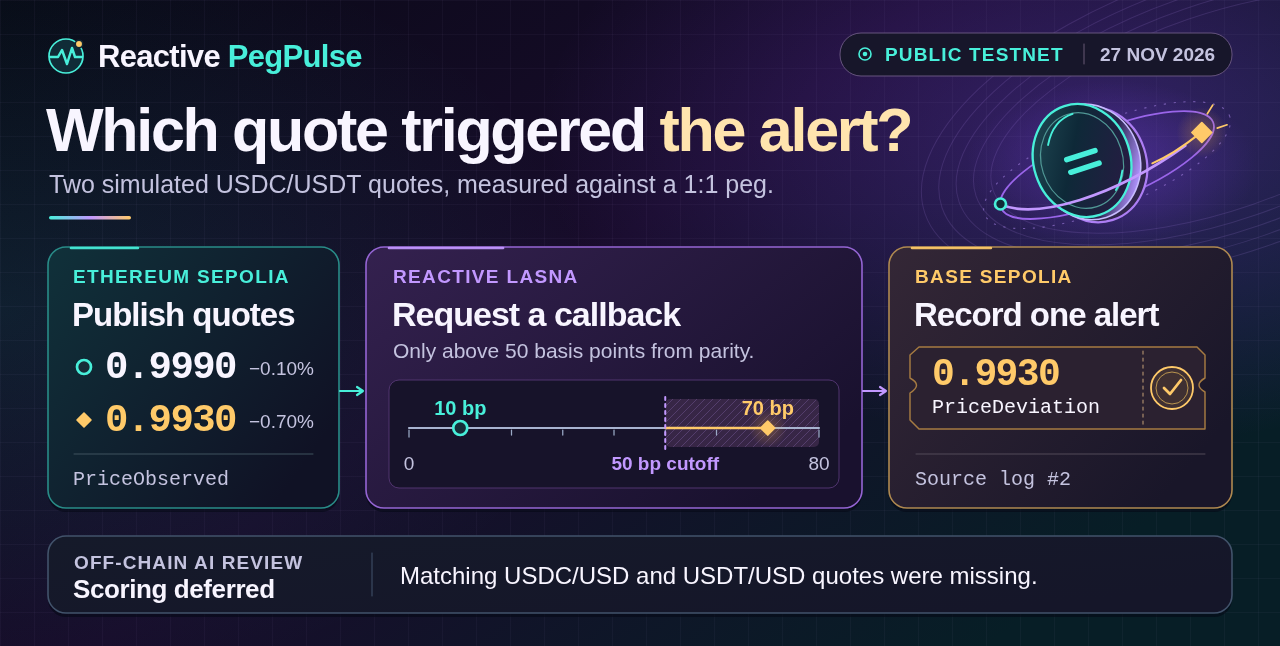
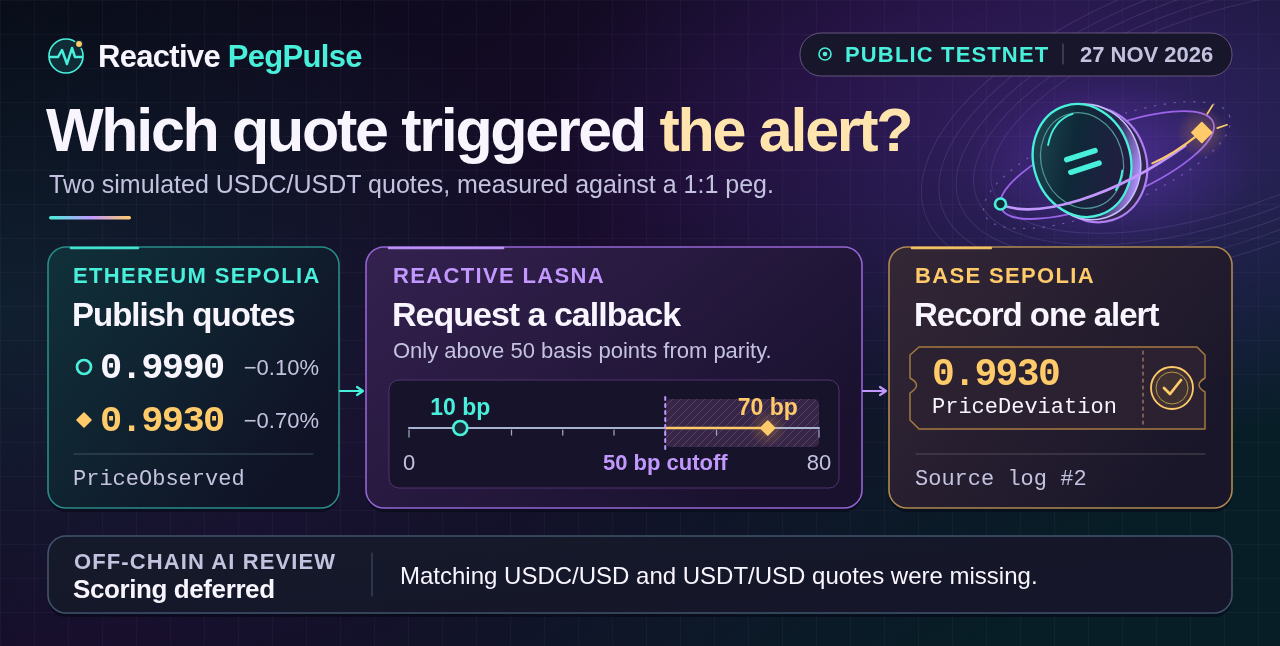
Size cover labels for the actual GitHub desktop and phone columns

diff --git a/track3/visual/hero/build.py b/track3/visual/hero/build.py
@@ -124,7 +124,7 @@ def panel(svg, x, y, w, h, gradient_id, stroke):
         path(svg, f"M{x+23} {y+1} h{w * .23:.1f}", color, 2.6, opacity=".92")
 
 
-def tag(svg, x, y, label, color, size=19):
+def tag(svg, x, y, label, color, size=22):
     text(svg, x, y, label, size, color, 700, space=1.35)
 
 
@@ -141,7 +141,7 @@ def scale_plot(svg, x, y, w, trigger, *, compact=False):
     right = x + w
     unit = w / 80
     threshold = x + unit * CUTOFF
-    size = 18 if compact else 19
+    size = 20 if compact else 22
     rect(svg, threshold, y - 29, right - threshold, 48, "#51365d", rx=5, opacity=".56")
     rect(svg, threshold, y - 29, right - threshold, 48, "url(#tail-hatch)", rx=5)
     path(svg, f"M{x} {y} H{right}", "#a8b3d0", 2.1)
@@ -181,11 +181,11 @@ def status_dot(svg, x, y):
 def desktop(svg, trigger, log_index):
     backdrop(svg, 1280, 646, False)
     brand(svg, 48, 67, False)
-    rect(svg, 840, 33, 392, 43, "#17162a", rx=21, stroke="#66547e")
-    status_dot(svg, 865, 54)
-    text(svg, 885, 61, "PUBLIC TESTNET", 19, MINT, 700, space=1.15)
-    path(svg, "M1084 44 V64", "#685975")
-    text(svg, 1100, 61, "27 NOV 2026", 19, MUTED, 600)
+    rect(svg, 800, 33, 432, 43, "#17162a", rx=21, stroke="#66547e")
+    status_dot(svg, 825, 54)
+    text(svg, 845, 62, "PUBLIC TESTNET", 22, MINT, 700, space=1.15)
+    path(svg, "M1063 44 V64", "#685975")
+    text(svg, 1080, 62, "27 NOV 2026", 22, MUTED, 600)
     peg_illustration(svg, 1105, 160, 1.10)
     el = text(svg, 46, 151, "Which quote triggered ", 61, weight=700, space=-2.3)
     node(el, "tspan", fill="#ffe4ae").text = "the alert?"
@@ -202,16 +202,16 @@ def desktop(svg, trigger, log_index):
     text(svg, 72, 326, "Publish quotes", 33, weight=650, space=-1.0)
     for quote, y, active in ((CONTROL, 378, False), (trigger, 431, True)):
         marker(svg, 84, y - 11, active, 7)
-        text(svg, 105, y, f"{quote / PARITY:.4f}", 39, GOLD if active else PAPER, 650,
+        text(svg, 100, y, f"{quote / PARITY:.4f}", 37, GOLD if active else PAPER, 650,
              mono=True, space=-1.6)
-        text(svg, 314, y - 3, f"{(quote - PARITY) / 100:+.2f}%".replace("-", "−"), 19,
+        text(svg, 319, y - 3, f"{(quote - PARITY) / 100:+.2f}%".replace("-", "−"), 22,
              MUTED, anchor="end")
     path(svg, "M74 454 H313", "#3e535f")
-    text(svg, 73, 485, "PriceObserved", 20, MUTED, mono=True)
+    text(svg, 73, 485, "PriceObserved", 22, MUTED, mono=True)
 
     tag(svg, 393, 283, "REACTIVE LASNA", VIOLET)
     text(svg, 392, 326, "Request a callback", 34, weight=650, space=-1.0)
-    text(svg, 393, 358, "Only above 50 basis points from parity.", 21, MUTED)
+    text(svg, 393, 358, "Only above 50 basis points from parity.", 22, MUTED)
     rect(svg, 389, 380, 450, 108, "#17132a", rx=10, stroke="#50346e")
     scale_plot(svg, 409, 428, 410, trigger)
 
@@ -221,15 +221,15 @@ def desktop(svg, trigger, log_index):
          "L910 420 V393 Q923 385 910 378 V355 Z", "#a67b42", 1.45, "#2b2130")
     path(svg, "M1143 351 V425", "#a48768", 1.25, stroke_dasharray="3 4")
     text(svg, 932, 385, f"{trigger / PARITY:.4f}", 38, GOLD, 650, mono=True, space=-1.6)
-    text(svg, 932, 413, "PriceDeviation", 20, PAPER, 500, mono=True)
+    text(svg, 932, 413, "PriceDeviation", 22, PAPER, 500, mono=True)
     node(svg, "circle", cx=1172, cy=388, r=21, fill="#3f3032", stroke=GOLD, stroke_width=1.8)
     node(svg, "circle", cx=1172, cy=388, r=16, fill="none", stroke="#ba954f", stroke_width=1)
     path(svg, "M1164 388 l6 6 11 -14", GOLD, 2.8)
     path(svg, "M916 454 H1205", "#534b59")
-    text(svg, 915, 485, f"Source log #{log_index}", 20, MUTED, mono=True)
+    text(svg, 915, 485, f"Source log #{log_index}", 22, MUTED, mono=True)
 
     panel(svg, 48, 536, 1184, 77, "review", "#42536b")
-    text(svg, 74, 569, "OFF-CHAIN AI REVIEW", 19, MUTED, 700, space=1.1)
+    text(svg, 74, 569, "OFF-CHAIN AI REVIEW", 22, MUTED, 700, space=1.1)
     text(svg, 73, 598, "Scoring deferred", 26, weight=650, space=-0.4)
     path(svg, "M372 553 V596", "#43536d")
     text(svg, 400, 584, "Matching USDC/USD and USDT/USD quotes were missing.", 24, PAPER)
@@ -240,15 +240,15 @@ def phone(svg, trigger, log_index):
     brand(svg, 24, 48, True)
     peg_illustration(svg, 362, 43, .49)
     status_dot(svg, 31, 84)
-    text(svg, 47, 90, "PUBLIC TESTNET", 18, MINT, 700, space=1.0)
-    text(svg, 232, 90, "27 NOV 2026", 18, MUTED, 600)
+    text(svg, 47, 90, "PUBLIC TESTNET", 20, MINT, 700, space=1.0)
+    text(svg, 250, 90, "27 NOV 2026", 20, MUTED, 600)
     text(svg, 23, 140, "Which quote", 42, weight=700, space=-1.5)
     el = text(svg, 23, 183, "triggered ", 42, weight=700, space=-1.5)
     node(el, "tspan", fill="#ffe4ae").text = "the alert?"
     rect(svg, 25, 202, 64, 3, "url(#spectrum)", rx=1.5)
 
     panel(svg, 24, 229, 392, 116, "origin", "#298c88")
-    tag(svg, 43, 257, "ETHEREUM SEPOLIA", MINT, 18)
+    tag(svg, 43, 257, "ETHEREUM SEPOLIA", MINT, 20)
     text(svg, 43, 284, "Simulated USDC/USDT quotes", 20, PAPER, 550)
     for x, quote, active in ((53, CONTROL, False), (240, trigger, True)):
         marker(svg, x, 314, active, 6)
@@ -257,21 +257,21 @@ def phone(svg, trigger, log_index):
     arrow(svg, 220, 345, MINT, down=True, length=20)
 
     panel(svg, 24, 365, 392, 180, "gate", "#9565d4")
-    tag(svg, 43, 394, "REACTIVE LASNA", VIOLET, 18)
+    tag(svg, 43, 394, "REACTIVE LASNA", VIOLET, 20)
     text(svg, 42, 427, "Call back only above 50 bp", 26, weight=650, space=-0.7)
     scale_plot(svg, 55, 479, 326, trigger, compact=True)
     arrow(svg, 220, 545, VIOLET, down=True, length=20)
 
     panel(svg, 24, 565, 392, 106, "sink", "#af8950")
-    tag(svg, 43, 595, "BASE SEPOLIA", GOLD, 18)
+    tag(svg, 43, 595, "BASE SEPOLIA", GOLD, 20)
     text(svg, 43, 626, f"One alert for {trigger / PARITY:.4f}", 27, weight=650, space=-0.6)
-    text(svg, 43, 653, f"PriceDeviation  ·  source log #{log_index}", 18, MUTED, mono=True)
+    text(svg, 43, 653, f"PriceDeviation  ·  source log #{log_index}", 20, MUTED, mono=True)
     receipt_mark(svg, 367, 589)
 
     panel(svg, 24, 691, 392, 91, "review", "#42536b")
-    tag(svg, 43, 717, "OFF-CHAIN AI REVIEW", MUTED, 18)
+    tag(svg, 43, 717, "OFF-CHAIN AI REVIEW", MUTED, 20)
     text(svg, 43, 747, "Scoring deferred", 26, weight=650, space=-0.5)
-    text(svg, 43, 770, "Missing USDC/USD and USDT/USD quotes.", 18, MUTED)
+    text(svg, 43, 771, "Missing both USD reference prices.", 20, MUTED)
 
 
 def main():

diff --git a/track3/visual/README.md b/track3/visual/README.md
@@ -51,7 +51,7 @@ The Python standard library builds both native SVG compositions. The generator r
 
 ```sh
 python3 track3/visual/hero/build.py
-python3 .agents/skills/design-github-readme-heroes/scripts/check_hero.py track3/visual/hero/desktop.svg --mobile track3/visual/hero/mobile.svg --breakpoint 860 --out /tmp/pegpulse-hero --export-wide track3/visual/hero/cover.png
+python3 .agents/skills/design-github-readme-heroes/scripts/check_hero.py track3/visual/hero/desktop.svg --mobile track3/visual/hero/mobile.svg --breakpoint 860 --wide-width 838 --phone-width 324 --out /tmp/pegpulse-hero --export-wide track3/visual/hero/cover.png
 ```
 
 The second command uses Playwright and Chromium to render both sizes against light and dark README backgrounds and check the text geometry. Install its dependencies with `python3 -m pip install playwright` and `python3 -m playwright install chromium`, or use `--browser` with an existing working Chromium executable. The root README embeds the SVGs directly. [Editable generator](hero/build.py) · [Desktop cover](hero/desktop.svg) · [Phone cover](hero/mobile.svg) · [PNG for slides](hero/cover.png) · [Reusable cover design guide](../../.agents/skills/design-github-readme-heroes/SKILL.md)
